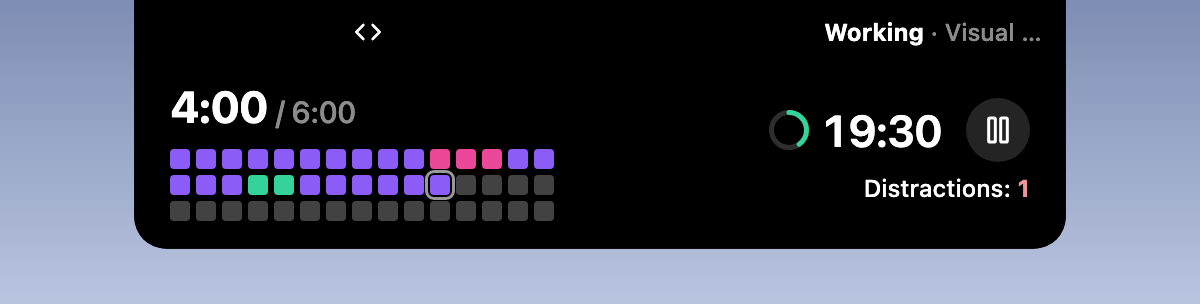
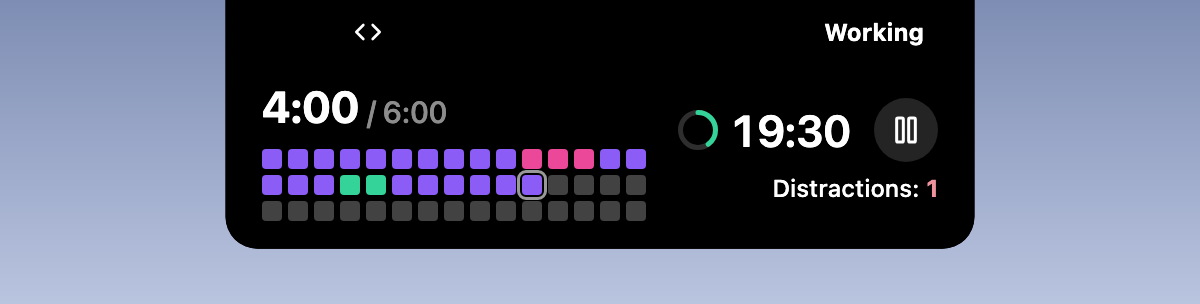
feat: show only the phase name at the top right of the open island
The top right showed the phase and the app, such as "工作中 · Visual S…". The island is centered and this text starts right of the notch, so each extra character made the island wider on both sides. It now shows only a short phase name, at most 12 wide in every language. The README screenshots of the open island are updated.

Changed region(s): [[0.0925, 0.0, 0.8942, 0.8289]]

diff --git a/i18n.js b/i18n.js
@@ -98,6 +98,12 @@
       resume: "继续",
       rounds: "今天完成 {n} 段",
       islandDistractions: "分心 {n} 次",
+      islandPhase: {
+        working: "工作中",
+        slacking: "摸鱼暂停",
+        paused: "已暂停",
+        resting: "休息中",
+      },
       goals: {
         title: "今天的目标",
         empty: "还没有目标，在「设置」里添加。",
@@ -223,6 +229,12 @@
       resume: "繼續",
       rounds: "今天完成 {n} 段",
       islandDistractions: "分心 {n} 次",
+      islandPhase: {
+        working: "工作中",
+        slacking: "摸魚暫停",
+        paused: "已暫停",
+        resting: "休息中",
+      },
       goals: {
         title: "今天的目標",
         empty: "還沒有目標，在「設定」裡新增。",
@@ -348,6 +360,12 @@
       resume: "Resume",
       rounds: "Blocks done today: {n}",
       islandDistractions: "Distractions: {n}",
+      islandPhase: {
+        working: "Working",
+        slacking: "Off task",
+        paused: "Paused",
+        resting: "Break",
+      },
       goals: {
         title: "Today's goals",
         empty: "No goals yet. Add them in Settings.",
@@ -473,6 +491,12 @@
       resume: "再開",
       rounds: "今日の完了セッション：{n}",
       islandDistractions: "脱線 {n} 回",
+      islandPhase: {
+        working: "作業中",
+        slacking: "脱線中",
+        paused: "一時停止中",
+        resting: "休憩中",
+      },
       goals: {
         title: "今日の目標",
         empty: "まだ目標がありません。「設定」で追加できます。",
@@ -598,6 +622,12 @@
       resume: "Retomar",
       rounds: "Blocos concluídos hoje: {n}",
       islandDistractions: "Distrações: {n}",
+      islandPhase: {
+        working: "Trabalhando",
+        slacking: "Distraído",
+        paused: "Pausado",
+        resting: "Intervalo",
+      },
       goals: {
         title: "Metas de hoje",
         empty: "Nenhuma meta ainda. Adicione em Configurações.",
@@ -723,6 +753,12 @@
       resume: "Reanudar",
       rounds: "Bloques completados hoy: {n}",
       islandDistractions: "Distracciones: {n}",
+      islandPhase: {
+        working: "Trabajando",
+        slacking: "Distraído",
+        paused: "En pausa",
+        resting: "Descanso",
+      },
       goals: {
         title: "Objetivos de hoy",
         empty: "Aún no hay objetivos. Añádelos en Ajustes.",

diff --git a/island.js b/island.js
@@ -9,8 +9,6 @@
   // 计时器在走是绿的，停着是灰的
   const RUNNING = "#34d399";
   const STOPPED = "#918d9f";
-  // 岛上小字最多 20 宽，见 Hindsight 的 docs/design/plugins/island.md
-  const SMALL = 20;
   // 每行最多 20 格，最多 3 行
   const MAX_CELLS = 60;
   // 和页面的轨迹一样，一行 15 格
@@ -21,18 +19,6 @@
 
   /** 岛算的宽度：ASCII 算 1，别的算 2。岛对一部分非 ASCII 字只算 1，所以这里只会算多 */
   const width = (text) => [...text].reduce((n, c) => n + (c.codePointAt(0) < 0x80 ? 1 : 2), 0);
-
-  /** 去掉岛不收的字，再截到最多 `max` 宽，截了的末尾是「…」 */
-  function fit(text, max) {
-    const clean = String(text ?? "").replace(UNSAFE, "");
-    if (width(clean) <= max) return clean;
-    let out = "";
-    for (const c of clean) {
-      if (width(out + c) + width("…") > max) break;
-      out += c;
-    }
-    return `${out}…`;
-  }
 
   /** 分类的图标名，岛不收的返回 null */
   function iconName(value) {
@@ -130,13 +116,6 @@
     const icon = { type: "icon", name };
     const time = timer(s, rhythm);
 
-    const phase = fit(T.phase[s.phase], SMALL);
-    const line = [{ text: phase, bold: true }];
-    const room = SMALL - width(phase);
-    if (s.phase !== "resting" && s.focus.app && room >= 6) {
-      line.push({ text: fit(` · ${s.focus.app}`, room), dim: true });
-    }
-
     const right = [time];
     if (s.phase === "paused") right.push({ type: "button", id: "resume", icon: "Play" });
     else if (s.phase !== "resting") right.push({ type: "button", id: "pause", icon: "Pause" });
@@ -145,7 +124,8 @@
     return {
       closed: { left: icon, right: time },
       open: {
-        topRight: { type: "text", text: line },
+        // 只放短的阶段名：岛居中，这里的字从刘海右边排起，字长一点岛就宽出两倍
+        topRight: { type: "text", text: [{ text: T.islandPhase[s.phase], bold: true }] },
         left: target ? [target, cells(s, rhythm, now)] : [cells(s, rhythm, now)],
         right,
         bottomRight: distractions(s, T),
@@ -157,5 +137,5 @@
    * Hindsight 的 window.changed 说的："open"、"minimized" 或 "closed" */
   const wanted = (settings, window) => settings.minimizeToIsland === true && window !== "open";
 
-  globalThis.FocusIsland = { content, fit, width, wanted };
+  globalThis.FocusIsland = { content, width, wanted };
 })();
